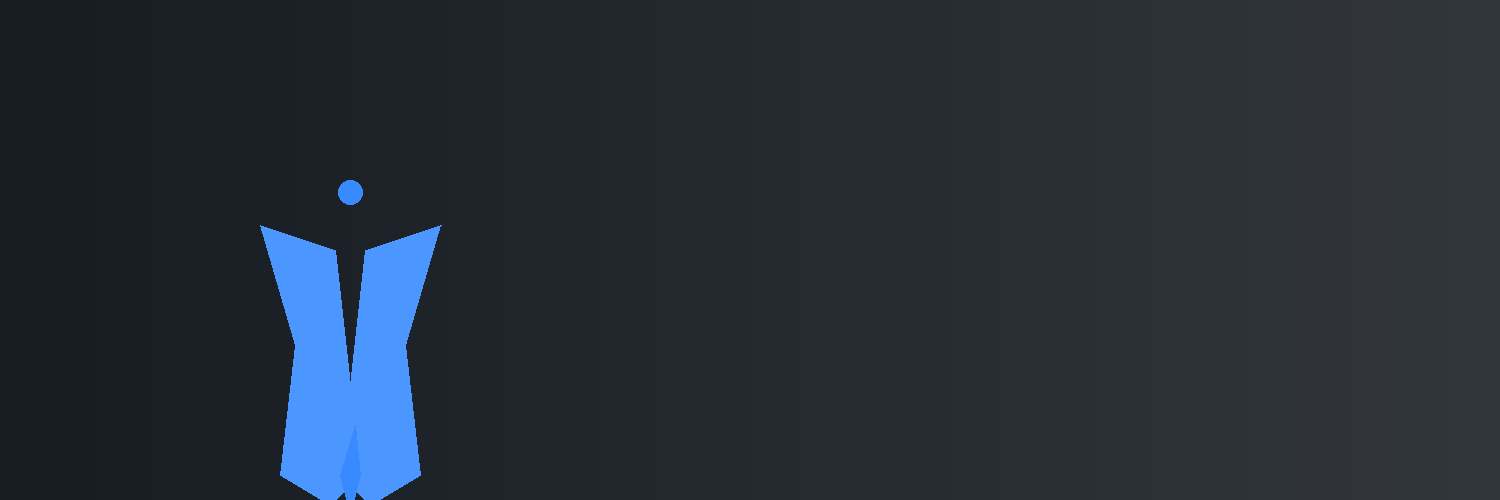
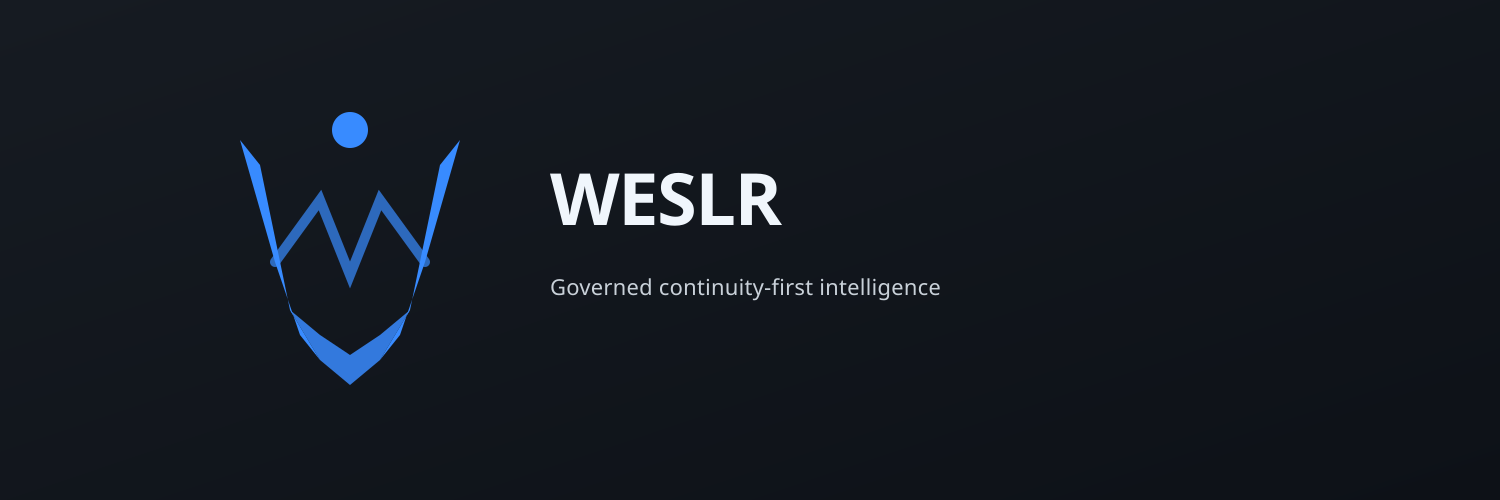
WESLR: refine X platform brand assets

diff --git a/docs/WESLR_V1_X_PLATFORM_BRAND_ASSETS_V1.md b/docs/WESLR_V1_X_PLATFORM_BRAND_ASSETS_V1.md
@@ -1,6 +1,7 @@
-# WESLR V1 X Platform Brand Assets V1
+# WESLR V1 X Platform Brand Assets V2
 
 Date: 2026-05-29
+Version: V2 (refinement pass)
 Status: brand asset creation only
 Purpose: X platform profile icon and banner for WESLR
 
@@ -30,10 +31,13 @@ Purpose: X platform profile icon and banner for WESLR
 
 ### 2.1 Logo Variant
 
-**Variant A + C Combined:**
-- Minimal W-oar/vessel mark
-- Small governance dot/star above center
-- Meaning: Evidence, operator authority, governance
+**Refined W-oar/vessel (V2):**
+- Clearer W shape with visible "W" letterform
+- Oar-blade terminals at top and bottom of strokes
+- Center V connection forms vessel hull shape
+- Governance dot above center
+- Meaning: Evidence, operator authority, governed navigation
+- Design intent: Recognizable as "W" while maintaining nautical/vessel essence
 
 ### 2.2 Color Palette
 
